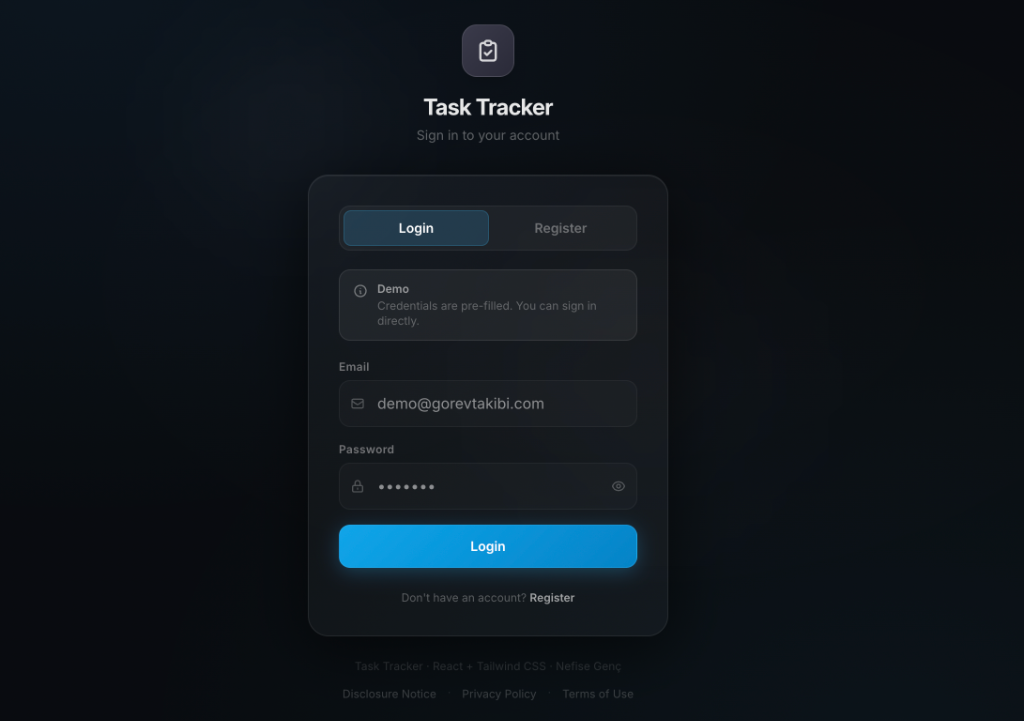
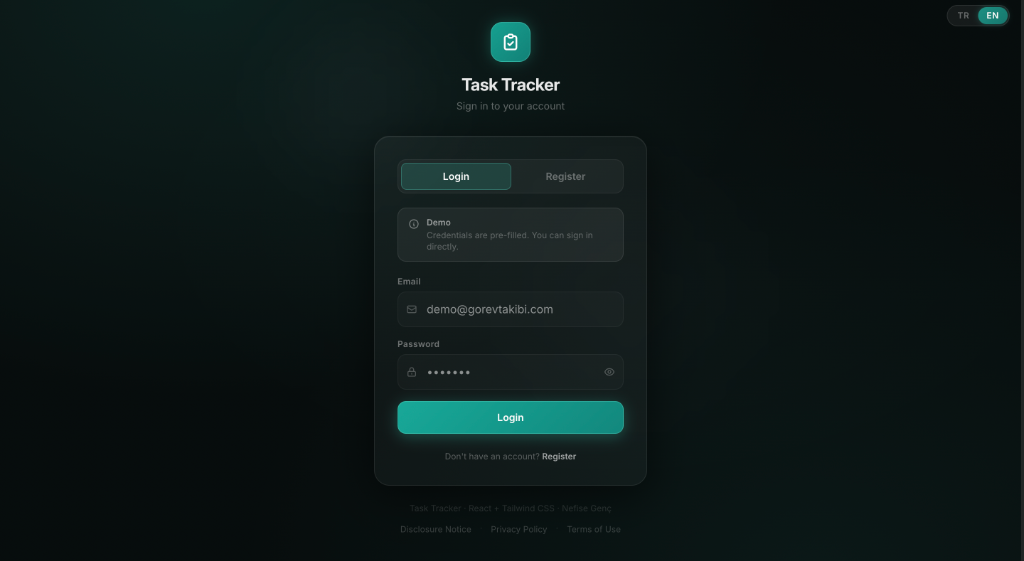
docs: add README with screenshots section

diff --git a/README.md b/README.md
@@ -1,68 +1,101 @@
-# ✅ Task Tracker — Checklist App
+# Task Tracker
 
-A task management web application developed as a Web Development course assignment.
+A responsive task management application built with **React**, **Tailwind CSS**, and **Vite**. Supports bilingual (TR/EN) interface, task categories, priority levels, due dates, and local persistence via JSON Server.
 
-## 🚀 Technologies Used
+---
 
-| Technology | Purpose |
-|-----------|------|
-| **React 18** | UI library (with Vite) |
-| **Tailwind CSS 3** | Styling / design |
-| **localStorage** | Persistent data storage in the browser |
+## Features
 
-## 📁 Project Structure
+- Add, edit, delete tasks
+- Mark tasks as completed
+- Filter by status (All / Active / Completed) and category (Personal, Work, Shopping, Other)
+- Search tasks by keyword
+- Priority levels: Low, Medium, High
+- Due date support
+- Progress bar
+- Bilingual UI (Turkish / English)
+- Authentication page (Login / Register)
+- Privacy Policy modal
+- Dark theme
 
-```
-src/
-├── components/
-│   ├── TaskForm.jsx      # Task add & update form
-│   ├── TaskItem.jsx      # Single task row
-│   ├── TaskList.jsx      # Task list
-│   └── TaskFilter.jsx    # Search & filter bar
-├── interfaces/
-│   └── Task.js           # Task data model & constants
-├── pages/
-│   └── HomePage.jsx      # Home page (CRUD management)
-├── App.jsx
-├── main.jsx
-└── index.css
-```
+---
 
-## ⚙ Installation
+## Tech Stack
+
+| Layer | Technology |
+|---|---|
+| UI | React 18, Tailwind CSS 3 |
+| Build | Vite 6 |
+| API | JSON Server 0.17 |
+| Testing | Vitest, Testing Library |
+
+---
+
+## Getting Started
 
 ```bash
+# Install dependencies
 npm install
+
+# Start the JSON Server (port 4000)
+npm run serve:api
+
+# Start the dev server (port 5173)
 npm run dev
 ```
 
-## 🌐 Deploying with Netlify
+---
 
-After pushing the project to GitHub and connecting it to Netlify, deployment happens automatically. You can also do it manually:
+## Running Tests
 
 ```bash
-npm run build
-# then upload the dist/ folder via the Netlify dashboard or CLI (`netlify deploy --prod`)
+npm test
 ```
 
-Live URL: **https://<your-site-name>.netlify.app/**  *(Copy from your Netlify dashboard)*
+---
 
-## 🔑 Features (CRUD)
+## Screenshots
 
-- ➕ **Create** — Add a task with title, description, priority, category and due date
-- 📋 **Read** — List all tasks; search, filter by status and category
-- ✏ **Update** — Edit and save an existing task
-- 🗑 **Delete** — Permanently remove a task
+### Login
+![Login](public/screenshots/login.png)
 
-## 📸 Screenshots
+### Home – Empty State
+![Home Empty](public/screenshots/home_empty.png)
 
-### Home Page — With Tasks
-![Home With Tasks](public/screenshots/home.png)
+### Home
+![Home](public/screenshots/home.png)
 
-### Home Page — Empty State
-![Home Empty](public/screenshots/home_2.png)
+### Home – Task List
+![Home Tasks](public/screenshots/home_tasks.png)
 
-### Task List
-![Task List](public/screenshots/home_3.png)
+### Home – Turkish
+![Home TR](public/screenshots/home_tr.png)
 
-### Policy Modal
-![Policy Modal](public/screenshots/home_4.png)
+### Home – Views 2 / 3 / 4
+![Home 2](public/screenshots/home_2.png)
+![Home 3](public/screenshots/home_3.png)
+![Home 4](public/screenshots/home_4.png)
+
+### Privacy Policy Modal
+![Policy Modal](public/screenshots/policy_modal.png)
+
+---
+
+## Project Structure
+
+```
+src/
+├── components/     # Navbar, TaskForm, TaskItem, TaskList, TaskFilter, PolicyModal
+├── context/        # LanguageContext (TR/EN)
+├── interfaces/     # Task and User models
+├── pages/          # AuthPage, HomePage
+├── api.js          # API helpers (JSON Server)
+├── App.jsx
+└── main.jsx
+```
+
+---
+
+## Author
+
+**Nefise Genç** – [github.com/nefisegenc](https://github.com/nefisegenc)
